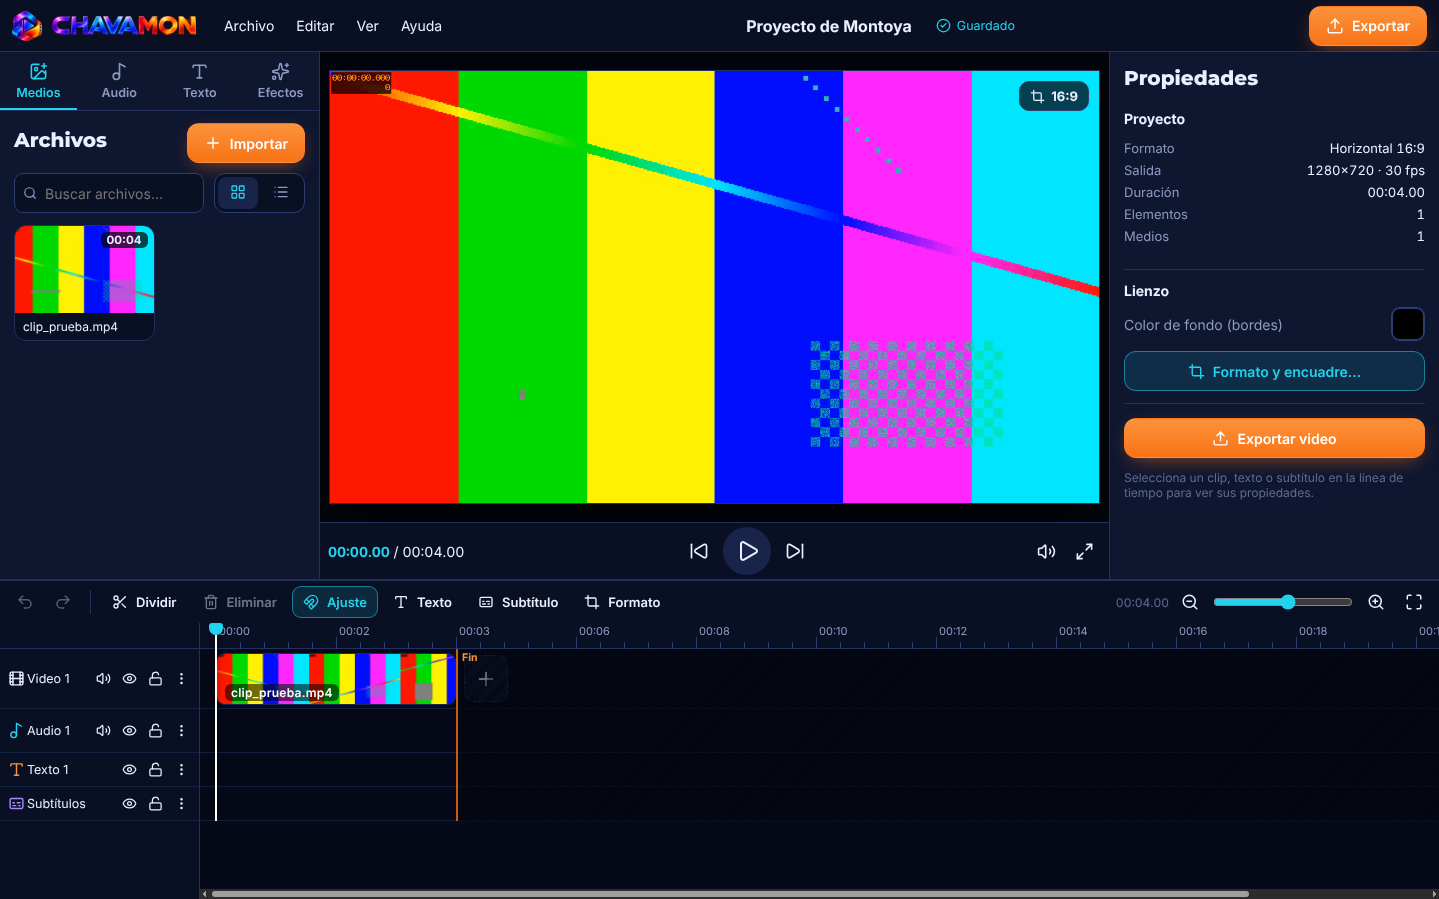
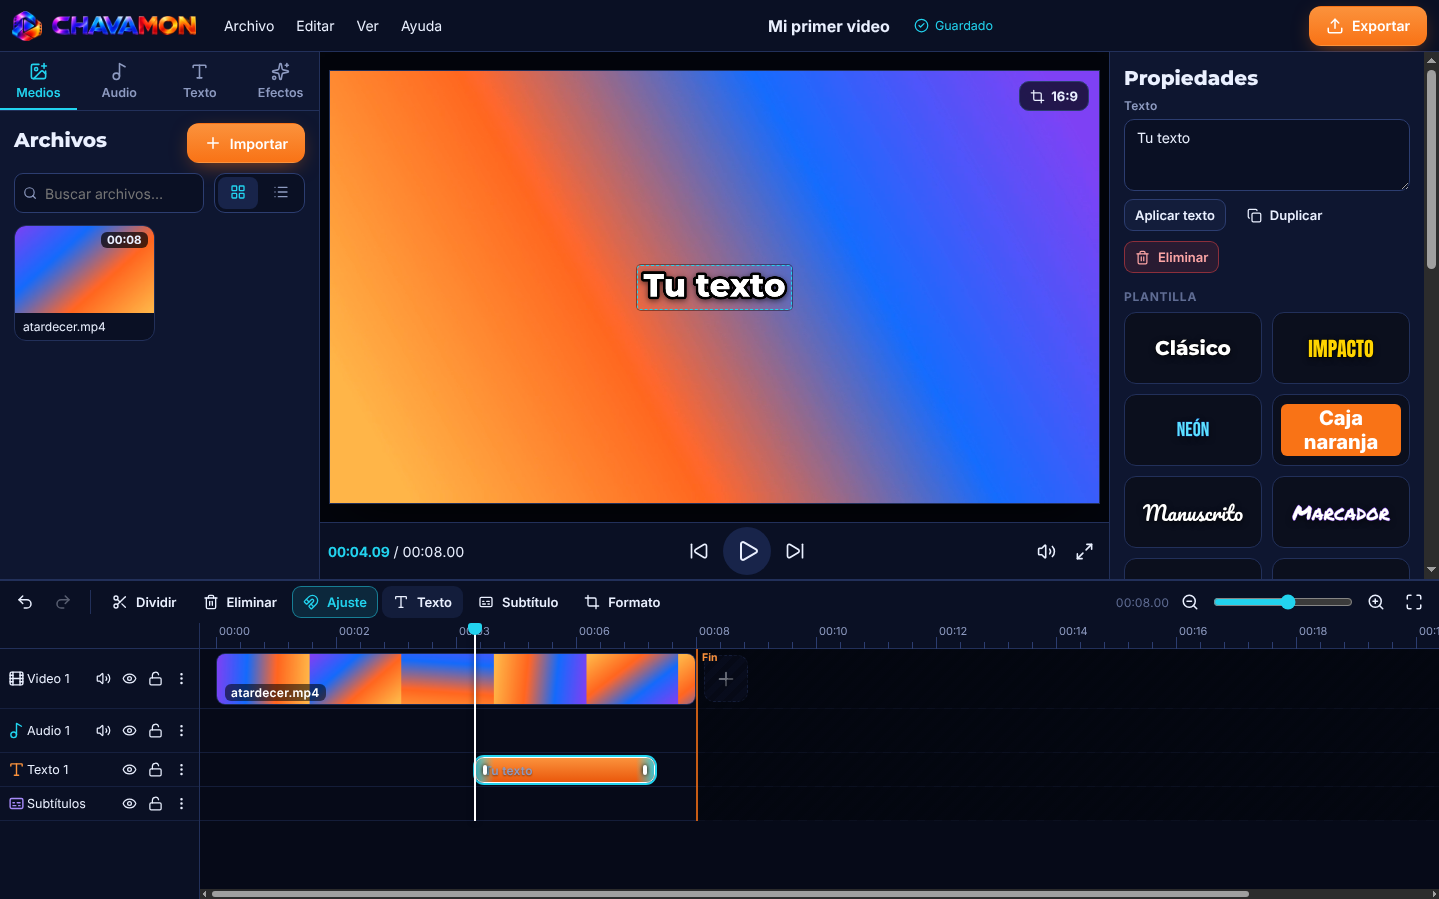
Página de descarga
- web/: página estática para Vercel; descarga desde GitHub Releases y despierta el servidor al abrirse.
- Capturas nuevas con un proyecto de ejemplo.

Claude-Session: https://claude.ai/code/session_01PdwCm17fi6Rv5CUQ6T3idp

diff --git a/web/index.html b/web/index.html
@@ -1,0 +1,301 @@
+<!doctype html>
+<html lang="es-MX">
+<head>
+<meta charset="utf-8">
+<meta name="viewport" content="width=device-width, initial-scale=1, viewport-fit=cover">
+<title>CHAVAMON</title>
+<meta name="description" content="CHAVAMON: editor de video local para Windows. Tus videos se editan y se guardan en tu equipo, sin cuentas ni telemetría.">
+<meta name="theme-color" content="#070b1a">
+<meta property="og:title" content="CHAVAMON">
+<meta property="og:description" content="Editor de video local para Windows. Sin cuentas, sin telemetría, sin marca de agua.">
+<meta property="og:image" content="img/editor.jpg">
+<link rel="icon" href="favicon.ico" sizes="16x16 32x32 48x48">
+<link rel="apple-touch-icon" href="apple-touch-icon.png">
+<link rel="preconnect" href="https://fonts.googleapis.com">
+<link rel="preconnect" href="https://fonts.gstatic.com" crossorigin>
+<link rel="stylesheet" href="https://fonts.googleapis.com/css2?family=Inter:wght@400;500;600&family=Montserrat:wght@700;800;900&family=Roboto+Mono:wght@400;500&display=swap">
+<style>
+/* Diseño: una sola columna sobre el azul noche de la app; el naranja de sus botones marca la acción principal. */
+:root {
+  color-scheme: dark;
+  --noche: #070b1a;
+  --panel: #0e1530;
+  --panel-2: #131c3d;
+  --linea: #23305e;
+  --texto: #e9ecf7;
+  --tenue: #9aa4c4;
+  --naranja: #ff7a1a;
+  --naranja-2: #ffa041;
+  --cian: #2fd3f0;
+  --verde: #3ddc97;
+  --ambar: #ffc04d;
+  --rojo: #ff6b6b;
+  --f-titulo: "Montserrat", "Segoe UI", system-ui, sans-serif;
+  --f-texto: "Inter", "Segoe UI", system-ui, sans-serif;
+  --f-mono: "Roboto Mono", ui-monospace, "Cascadia Mono", Consolas, monospace;
+  --radio: 14px;
+}
+* { box-sizing: border-box; }
+html { scroll-behavior: smooth; }
+@media (prefers-reduced-motion: reduce) { html { scroll-behavior: auto; } * { animation: none !important; transition: none !important; } }
+body { margin: 0; background: var(--noche); color: var(--texto); font: 16px/1.6 var(--f-texto); -webkit-font-smoothing: antialiased; }
+body::before { content: ""; position: fixed; inset: 0; pointer-events: none; background: radial-gradient(900px 500px at 15% -10%, rgba(123, 47, 247, .22), transparent 60%), radial-gradient(800px 480px at 95% 0%, rgba(255, 122, 26, .14), transparent 60%); z-index: -1; }
+a { color: var(--cian); }
+img { max-width: 100%; height: auto; display: block; }
+.envoltura { width: 100%; max-width: 1120px; margin: 0 auto; padding-inline: 20px; }
+h1, h2, h3 { font-family: var(--f-titulo); line-height: 1.15; text-wrap: balance; margin: 0; }
+h2 { font-size: clamp(1.6rem, 3.2vw, 2.2rem); font-weight: 800; }
+h3 { font-size: 1.05rem; font-weight: 700; }
+p { margin: 0; }
+.etiqueta { font: 600 .75rem/1 var(--f-texto); letter-spacing: .12em; text-transform: uppercase; color: var(--cian); }
+:focus-visible { outline: 3px solid var(--cian); outline-offset: 3px; border-radius: 8px; }
+
+/* barra superior */
+.barra { position: sticky; top: env(safe-area-inset-top, 0px); z-index: 10; background: rgba(7, 11, 26, .82); backdrop-filter: blur(10px); border-bottom: 1px solid rgba(35, 48, 94, .7); }
+.barra .envoltura { display: flex; align-items: center; gap: 16px; min-height: 64px; }
+.marca { display: flex; align-items: center; gap: 10px; text-decoration: none; min-width: 0; }
+.marca .sim { width: 36px; height: 36px; }
+.marca .letras { height: 22px; width: auto; }
+.barra nav { display: flex; gap: 22px; margin-left: auto; }
+.barra nav a { color: var(--tenue); text-decoration: none; font-weight: 500; font-size: .95rem; }
+.barra nav a:hover { color: var(--texto); }
+.estado { display: inline-flex; align-items: center; gap: 8px; font-size: .8rem; color: var(--tenue); border: 1px solid var(--linea); border-radius: 999px; padding: 5px 12px; white-space: nowrap; }
+.estado .punto { width: 8px; height: 8px; border-radius: 50%; background: var(--ambar); box-shadow: 0 0 0 0 rgba(255, 192, 77, .6); animation: latido 1.6s infinite; }
+.estado[data-estado="ok"] .punto { background: var(--verde); animation: none; }
+.estado[data-estado="dormido"] .punto { background: var(--rojo); animation: none; }
+@keyframes latido { 0% { box-shadow: 0 0 0 0 rgba(255, 192, 77, .55); } 70% { box-shadow: 0 0 0 8px rgba(255, 192, 77, 0); } 100% { box-shadow: 0 0 0 0 rgba(255, 192, 77, 0); } }
+@media (max-width: 760px) { .barra nav { display: none; } .estado { margin-left: auto; } .estado .txt { display: none; } }
+
+/* portada */
+.portada { padding-block: 56px 32px; display: grid; grid-template-columns: minmax(0, 1fr) minmax(0, 1.05fr); gap: 48px; align-items: center; }
+.portada .logo { width: min(440px, 100%); }
+.portada .lema { font-size: clamp(1.15rem, 2.2vw, 1.35rem); color: var(--texto); margin-top: 18px; max-width: 34ch; }
+.portada .sub { color: var(--tenue); margin-top: 10px; max-width: 46ch; }
+.descarga { margin-top: 28px; display: flex; flex-wrap: wrap; gap: 12px; align-items: center; }
+.btn { display: inline-flex; align-items: center; gap: 10px; font: 700 1rem/1 var(--f-texto); text-decoration: none; border-radius: 12px; padding: 16px 22px; border: 1px solid transparent; cursor: pointer; }
+.btn svg { width: 20px; height: 20px; flex: none; }
+.btn.principal { background: linear-gradient(180deg, var(--naranja-2), var(--naranja)); color: #fff; box-shadow: 0 10px 30px -10px rgba(255, 122, 26, .7); }
+.btn.principal:hover { filter: brightness(1.06); }
+.btn.claro { background: var(--panel); color: var(--texto); border-color: var(--linea); }
+.btn.claro:hover { border-color: var(--cian); }
+.ficha { margin-top: 14px; color: var(--tenue); font-size: .9rem; font-variant-numeric: tabular-nums; }
+.ficha b { color: var(--texto); font-weight: 600; }
+.ventana { border-radius: var(--radio); overflow: hidden; border: 1px solid var(--linea); background: var(--panel); box-shadow: 0 30px 80px -30px rgba(0, 0, 0, .8), 0 0 0 1px rgba(255, 255, 255, .02) inset; }
+.ventana .tope { display: flex; align-items: center; gap: 8px; padding: 10px 14px; border-bottom: 1px solid var(--linea); font-size: .78rem; color: var(--tenue); }
+.ventana .tope i { width: 10px; height: 10px; border-radius: 50%; background: var(--linea); display: block; }
+.ventana .tope span { margin-left: 6px; }
+@media (max-width: 900px) { .portada { grid-template-columns: minmax(0, 1fr); gap: 32px; padding-top: 36px; } }
+
+section { padding-block: 56px; }
+.encabezado { display: grid; gap: 10px; margin-bottom: 28px; max-width: 60ch; }
+.encabezado p { color: var(--tenue); }
+
+/* instalación: secuencia real, por eso va numerada */
+.pasos { list-style: none; margin: 0; padding: 0; display: grid; grid-template-columns: repeat(4, minmax(0, 1fr)); gap: 16px; counter-reset: paso; }
+.pasos li { background: var(--panel); border: 1px solid var(--linea); border-radius: var(--radio); padding: 20px; counter-increment: paso; display: grid; gap: 8px; align-content: start; min-width: 0; }
+.pasos li::before { content: counter(paso); font: 800 1.4rem/1 var(--f-titulo); color: var(--naranja); }
+.pasos p { color: var(--tenue); font-size: .94rem; }
+.pasos kbd { font: 500 .82rem var(--f-mono); background: var(--panel-2); border: 1px solid var(--linea); border-radius: 6px; padding: 1px 6px; color: var(--texto); white-space: nowrap; }
+@media (max-width: 900px) { .pasos { grid-template-columns: repeat(2, minmax(0, 1fr)); } }
+@media (max-width: 520px) { .pasos { grid-template-columns: minmax(0, 1fr); } }
+
+/* funciones */
+.funciones { display: grid; grid-template-columns: repeat(3, minmax(0, 1fr)); gap: 28px 32px; }
+.funciones div { display: grid; gap: 6px; padding-top: 16px; border-top: 2px solid var(--linea); min-width: 0; }
+.funciones div:nth-child(3n+1) { border-top-color: #7b2ff7; }
+.funciones div:nth-child(3n+2) { border-top-color: #1e6bff; }
+.funciones div:nth-child(3n+3) { border-top-color: var(--naranja); }
+.funciones p { color: var(--tenue); font-size: .95rem; }
+@media (max-width: 900px) { .funciones { grid-template-columns: repeat(2, minmax(0, 1fr)); } }
+@media (max-width: 520px) { .funciones { grid-template-columns: minmax(0, 1fr); } }
+
+.galeria { display: grid; grid-template-columns: minmax(0, 1.6fr) minmax(0, 1fr); gap: 16px; align-items: start; }
+.galeria figure { margin: 0; display: grid; gap: 8px; min-width: 0; }
+.galeria figcaption { color: var(--tenue); font-size: .85rem; }
+.galeria img { border-radius: 12px; border: 1px solid var(--linea); }
+@media (max-width: 760px) { .galeria { grid-template-columns: minmax(0, 1fr); } }
+
+/* privacidad + verificación */
+.dos { display: grid; grid-template-columns: minmax(0, 1fr) minmax(0, 1fr); gap: 20px; }
+.caja { background: var(--panel); border: 1px solid var(--linea); border-radius: var(--radio); padding: 24px; display: grid; gap: 14px; align-content: start; min-width: 0; }
+.caja ul { margin: 0; padding-left: 1.1em; color: var(--tenue); display: grid; gap: 6px; }
+.caja ul b { color: var(--texto); font-weight: 600; }
+.huella { display: flex; gap: 8px; align-items: stretch; flex-wrap: wrap; }
+.huella code { flex: 1 1 260px; min-width: 0; font: 500 .82rem/1.5 var(--f-mono); background: var(--panel-2); border: 1px solid var(--linea); border-radius: 10px; padding: 10px 12px; overflow-wrap: anywhere; color: var(--texto); }
+.copiar { font: 600 .85rem var(--f-texto); background: var(--panel-2); color: var(--texto); border: 1px solid var(--linea); border-radius: 10px; padding: 0 14px; cursor: pointer; min-height: 40px; }
+.copiar:hover { border-color: var(--cian); }
+pre.cmd { margin: 0; overflow-x: auto; font: 500 .8rem/1.5 var(--f-mono); background: var(--panel-2); border: 1px solid var(--linea); border-radius: 10px; padding: 10px 12px; color: var(--texto); }
+.nota { color: var(--tenue); font-size: .88rem; }
+@media (max-width: 760px) { .dos { grid-template-columns: minmax(0, 1fr); } }
+
+footer { border-top: 1px solid var(--linea); padding-block: 28px 40px; color: var(--tenue); font-size: .88rem; }
+footer .envoltura { display: flex; flex-wrap: wrap; gap: 12px 24px; justify-content: space-between; }
+</style>
+</head>
+<body>
+<header class="barra">
+  <div class="envoltura">
+    <a class="marca" href="#" aria-label="CHAVAMON, inicio">
+      <img class="sim" src="img/simbolo.png" alt="" width="36" height="36">
+      <img class="letras" src="img/letras.png" alt="CHAVAMON" width="166" height="22">
+    </a>
+    <nav aria-label="Secciones">
+      <a href="#instalar">Instalar</a>
+      <a href="#funciones">Funciones</a>
+      <a href="#privacidad">Privacidad</a>
+    </nav>
+    <span class="estado" id="estado" data-estado="despertando" role="status" aria-live="polite" title="Estado del servidor de CHAVAMON">
+      <span class="punto" aria-hidden="true"></span><span class="txt" id="estado-txt">Despertando servidor…</span>
+    </span>
+  </div>
+</header>
+
+<main>
+  <div class="envoltura">
+    <div class="portada">
+      <div>
+        <img class="logo" src="img/logo-completo.png" alt="CHAVAMON" width="440" height="252">
+        <p class="lema">Edita tus videos en tu computadora. Sin cuentas, sin marca de agua y sin subir nada a internet.</p>
+        <p class="sub">Corta, agrega texto, música y subtítulos, y exporta en MP4 listo para YouTube, TikTok, Reels o Shorts.</p>
+        <div class="descarga">
+          <a class="btn principal" id="btn-descarga" href="https://github.com/AlfonsoCha1/CHAVAMON_BASICO/releases/download/v0.1.1/CHAVAMON-0.1.1-windows-x64.exe">
+            <svg viewBox="0 0 24 24" fill="none" stroke="currentColor" stroke-width="2.2" stroke-linecap="round" stroke-linejoin="round" aria-hidden="true"><path d="M12 3v12m0 0-5-5m5 5 5-5M4 19h16"/></svg>
+            Descargar para Windows
+          </a>
+          <a class="btn claro" href="https://github.com/AlfonsoCha1/CHAVAMON_BASICO" rel="noopener">
+            <svg viewBox="0 0 24 24" fill="currentColor" aria-hidden="true"><path d="M12 .5a11.5 11.5 0 0 0-3.64 22.41c.58.1.79-.25.79-.56v-2c-3.2.7-3.88-1.37-3.88-1.37-.53-1.33-1.28-1.69-1.28-1.69-1.05-.71.08-.7.08-.7 1.16.08 1.77 1.19 1.77 1.19 1.03 1.77 2.7 1.26 3.36.96.1-.75.4-1.26.73-1.55-2.55-.29-5.24-1.28-5.24-5.69 0-1.26.45-2.29 1.19-3.1-.12-.29-.52-1.46.11-3.05 0 0 .97-.31 3.17 1.18a11 11 0 0 1 5.77 0c2.2-1.49 3.17-1.18 3.17-1.18.63 1.59.23 2.76.11 3.05.74.81 1.19 1.84 1.19 3.1 0 4.42-2.7 5.4-5.26 5.68.41.36.78 1.06.78 2.14v3.17c0 .31.21.67.8.56A11.5 11.5 0 0 0 12 .5Z"/></svg>
+            Ver en GitHub
+          </a>
+        </div>
+        <p class="ficha" id="ficha">Versión <b id="f-version">0.1.1</b> · <b id="f-tamano">107 MB</b> · Windows 10 y 11 de 64 bits<span id="f-descargas"></span></p>
+      </div>
+      <div class="ventana">
+        <div class="tope"><i></i><i></i><i></i><span>CHAVAMON · Mi primer video</span></div>
+        <img src="img/editor.jpg" alt="Editor de CHAVAMON con un clip en la línea de tiempo y un texto encima del video" width="1440" height="900">
+      </div>
+    </div>
+  </div>
+
+  <section id="instalar">
+    <div class="envoltura">
+      <div class="encabezado">
+        <span class="etiqueta">Instalación</span>
+        <h2>Listo en cuatro pasos</h2>
+        <p>Si ya tenías Montoya Studio, CHAVAMON lo reemplaza y conserva tus proyectos, tu biblioteca y tus ajustes.</p>
+      </div>
+      <ol class="pasos">
+        <li><h3>Descarga</h3><p>Pulsa <b>Descargar para Windows</b>. El archivo se llama <kbd>CHAVAMON-0.1.1-windows-x64.exe</kbd>.</p></li>
+        <li><h3>Abre el instalador</h3><p>Búscalo en tu carpeta <kbd>Descargas</kbd> y ábrelo con doble clic.</p></li>
+        <li><h3>Aviso de Windows</h3><p>Si aparece "Windows protegió su PC", elige <kbd>Más información</kbd> y luego <kbd>Ejecutar de todas formas</kbd>. Sale porque el instalador aún no tiene firma digital.</p></li>
+        <li><h3>Empieza a editar</h3><p>Abre CHAVAMON desde el escritorio o el menú Inicio y crea tu primer proyecto.</p></li>
+      </ol>
+    </div>
+  </section>
+
+  <section id="funciones">
+    <div class="envoltura">
+      <div class="encabezado">
+        <span class="etiqueta">Funciones</span>
+        <h2>Lo que necesitas para tus videos, sin pagar suscripciones</h2>
+      </div>
+      <div class="funciones">
+        <div><h3>Línea de tiempo</h3><p>Pistas de video, audio, texto y subtítulos. Divide, elimina, oculta, silencia y bloquea pistas, con ajuste magnético.</p></div>
+        <div><h3>Formatos para redes</h3><p>Horizontal 16:9 para YouTube, vertical 9:16 para TikTok, Reels y Shorts, y cuadrado 1:1, con encuadre.</p></div>
+        <div><h3>Exportar en MP4</h3><p>De 720p a 4K, a 24, 25, 30 o 60 fps, con calidad normal, alta o máxima.</p></div>
+        <div><h3>Texto con estilo</h3><p>Plantillas como Clásico, Impacto, Neón o Manuscrito, con siete fuentes incluidas.</p></div>
+        <div><h3>Velocidad y subtítulos</h3><p>Velocidad del clip de 0.25x a 4x y subtítulos que puedes exportar como archivo SRT.</p></div>
+        <div><h3>Guardado automático</h3><p>Cada cambio se guarda con copia de respaldo. Si la app se cierra de golpe, recuperas tu proyecto.</p></div>
+      </div>
+    </div>
+  </section>
+
+  <section aria-label="Capturas">
+    <div class="envoltura galeria">
+      <figure><img src="img/inicio.jpg" alt="Pantalla Mis proyectos de CHAVAMON con un proyecto guardado" width="1440" height="900"><figcaption>Tus proyectos, guardados en Documentos\CHAVAMON.</figcaption></figure>
+      <figure><img src="img/ajustes.jpg" alt="Ajustes de CHAVAMON con la sección de privacidad" width="1440" height="900"><figcaption>Ajustes, privacidad e información del equipo.</figcaption></figure>
+    </div>
+  </section>
+
+  <section id="privacidad">
+    <div class="envoltura dos">
+      <div class="caja">
+        <span class="etiqueta">Privacidad</span>
+        <h2>Tus videos no salen de tu computadora</h2>
+        <ul>
+          <li><b>Todo es local.</b> Los videos, fotos, audios y proyectos se procesan y guardan en tu equipo.</li>
+          <li><b>Sin cuentas ni telemetría.</b> No hay registro, analíticas ni subidas ocultas.</li>
+          <li><b>Sin red en el editor.</b> La versión de escritorio bloquea cualquier conexión de la interfaz.</li>
+          <li><b>Solo lo que eliges.</b> La app abre únicamente los archivos que tú seleccionas o arrastras.</li>
+        </ul>
+      </div>
+      <div class="caja">
+        <span class="etiqueta">Verifica tu descarga</span>
+        <h3>Huella SHA-256 del instalador</h3>
+        <div class="huella">
+          <code id="sha">5b49580d4f3fe24e36afeac9208da2ffd59d1e13809d0f3846595b085ca355d1</code>
+          <button class="copiar" id="copiar" type="button">Copiar</button>
+        </div>
+        <p class="nota">En PowerShell, dentro de tu carpeta Descargas:</p>
+        <pre class="cmd"><code>Get-FileHash .\CHAVAMON-0.1.1-windows-x64.exe -Algorithm SHA256</code></pre>
+        <p class="nota">Si el resultado es igual a la huella de arriba, el archivo llegó completo y sin cambios.</p>
+      </div>
+    </div>
+  </section>
+</main>
+
+<footer>
+  <div class="envoltura">
+    <span>© 2026 Alfonso Chavarín. CHAVAMON es un nombre de uso personal; no es una marca registrada.</span>
+    <span><a href="https://github.com/AlfonsoCha1/CHAVAMON_BASICO" rel="noopener">Código en GitHub</a></span>
+  </div>
+</footer>
+
+<script>
+(() => {
+  // El servidor gratis de Render se duerme tras 15 minutos sin visitas; esta página lo despierta al abrirse.
+  // La descarga no depende de él: el botón apunta directo al archivo en GitHub.
+  const SERVIDOR = 'https://chavamon-servidor.onrender.com';
+  const $ = (id) => document.getElementById(id);
+  const estado = $('estado');
+  const txt = $('estado-txt');
+  const poner = (e, t) => { estado.dataset.estado = e; txt.textContent = t; estado.title = t; };
+  const mb = (b) => Math.round(b / 1048576) + ' MB';
+
+  function mostrar(v) {
+    if (!v || !v.url) return;
+    $('btn-descarga').href = v.url;
+    if (v.version) $('f-version').textContent = v.version;
+    if (v.tamano) $('f-tamano').textContent = mb(v.tamano);
+    if (v.sha256 && /^[a-f0-9]{64}$/i.test(v.sha256)) $('sha').textContent = v.sha256;
+    if (typeof v.descargas === 'number') $('f-descargas').textContent = ' · ' + v.descargas.toLocaleString('es-MX') + (v.descargas === 1 ? ' descarga' : ' descargas');
+  }
+
+  async function despertar() {
+    const t0 = performance.now();
+    const aviso = setTimeout(() => poner('despertando', 'Despertando servidor (tarda cerca de un minuto)…'), 4000);
+    try {
+      const r = await fetch(SERVIDOR + '/salud', { cache: 'no-store', signal: AbortSignal.timeout(90000) });
+      if (!r.ok) throw new Error('HTTP ' + r.status);
+      clearTimeout(aviso);
+      const s = ((performance.now() - t0) / 1000).toFixed(1);
+      poner('ok', 'Servidor en línea · ' + s + ' s');
+      const v = await (await fetch(SERVIDOR + '/api/version', { cache: 'no-store', signal: AbortSignal.timeout(20000) })).json();
+      mostrar(v);
+    } catch (e) {
+      clearTimeout(aviso);
+      poner('dormido', 'Servidor no disponible · la descarga funciona igual');
+    }
+  }
+  despertar();
+
+  $('copiar').addEventListener('click', async () => {
+    const b = $('copiar');
+    const valor = $('sha').textContent.trim();
+    try { await navigator.clipboard.writeText(valor); b.textContent = 'Copiada'; }
+    catch { const r = document.createRange(); r.selectNodeContents($('sha')); const s = getSelection(); s.removeAllRanges(); s.addRange(r); b.textContent = 'Selecciona y copia'; }
+    setTimeout(() => { b.textContent = 'Copiar'; }, 2200);
+  });
+})();
+</script>
+</body>
+</html>
